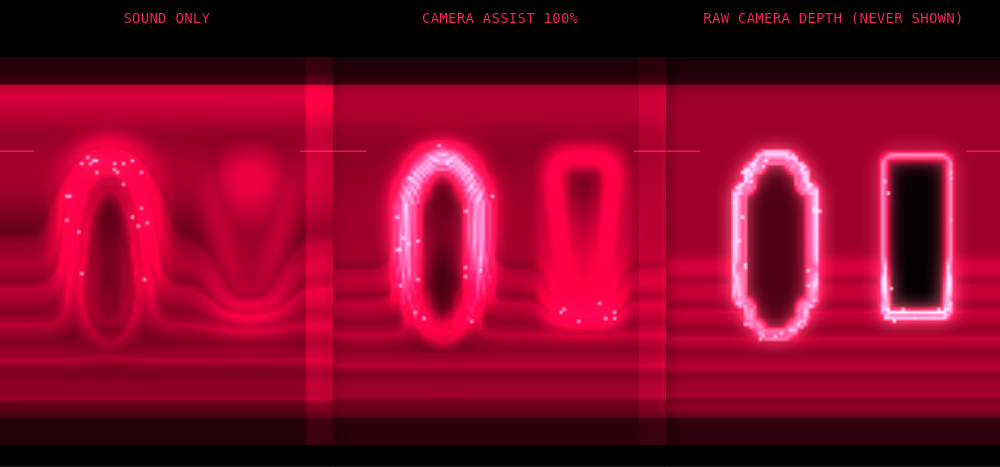
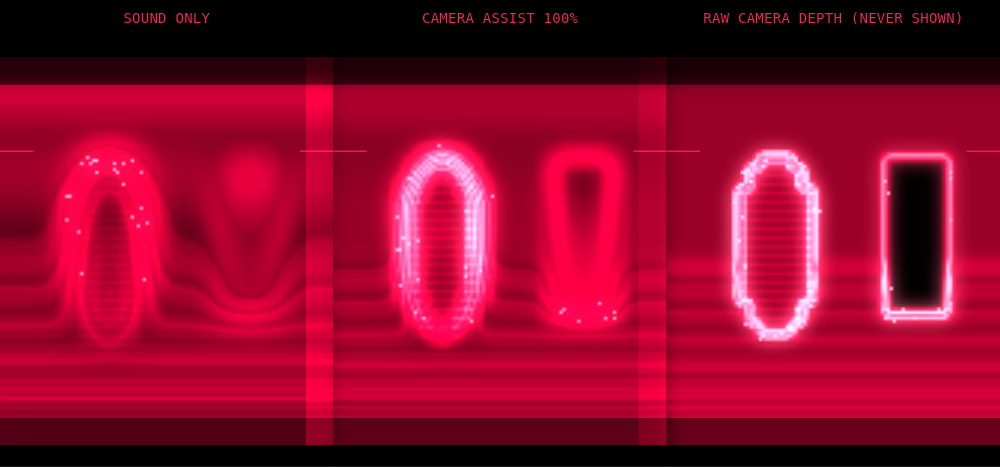
SEE: fill near surfaces so solid things read as solid
Near surfaces get a shaded laser-raster fill (lit by their slope), on top of the
existing edges and contours; far areas such as an open doorway stay dark.

Claude-Session: https://claude.ai/code/session_01FaaL1WKpQiBqvyPWN8qiJK

Changed region(s): [[0.0, 0.3298, 1.0, 0.9593]]

diff --git a/lib/render/vision_renderer.dart b/lib/render/vision_renderer.dart
@@ -62,7 +62,14 @@ class VisionRenderer {
 
         // Edges and contours are revealed mostly while the glow from the last ping lasts.
         final lit = 0.45 + 0.55 * glow;
-        var intensity = (edge * 1.1 + contour * 0.28 * v) * lit + glow * 0.6 + pulse * 0.35 + 0.03 * v;
+        // Solid bodies: near surfaces are filled, not just outlined, so a box reads as solid
+        // and a doorway (far inside) stays dark. The fill is shaded by the surface's slope
+        // (lit from above-left) and drawn as a fine laser raster, so it keeps the scan look.
+        final near = _smoothstep(0.4, 0.9, v);
+        final shade = (0.75 - (gx * 0.6 + gy) * 5).clamp(0.35, 1.0);
+        final raster = y % 3 == 0 ? 1.0 : 0.6;
+        final fill = near * 0.5 * shade * raster * (0.8 + 0.2 * glow);
+        var intensity = (edge * 1.1 + contour * 0.28 * v) * lit + glow * 0.6 + pulse * 0.35 + fill;
         if (edge > 0.35 && _rng.nextDouble() < 0.025) intensity += 0.9;
         palette.write(intensity.clamp(0.0, 1.0), _pixels, i * 4);
       }
@@ -70,6 +77,11 @@ class VisionRenderer {
     final done = Completer<ui.Image>();
     ui.decodeImageFromPixels(_pixels, n, n, ui.PixelFormat.rgba8888, done.complete);
     return done.future;
+  }
+
+  static double _smoothstep(double a, double b, double x) {
+    final t = ((x - a) / (b - a)).clamp(0.0, 1.0);
+    return t * t * (3 - 2 * t);
   }
 
   void _upsample() {
